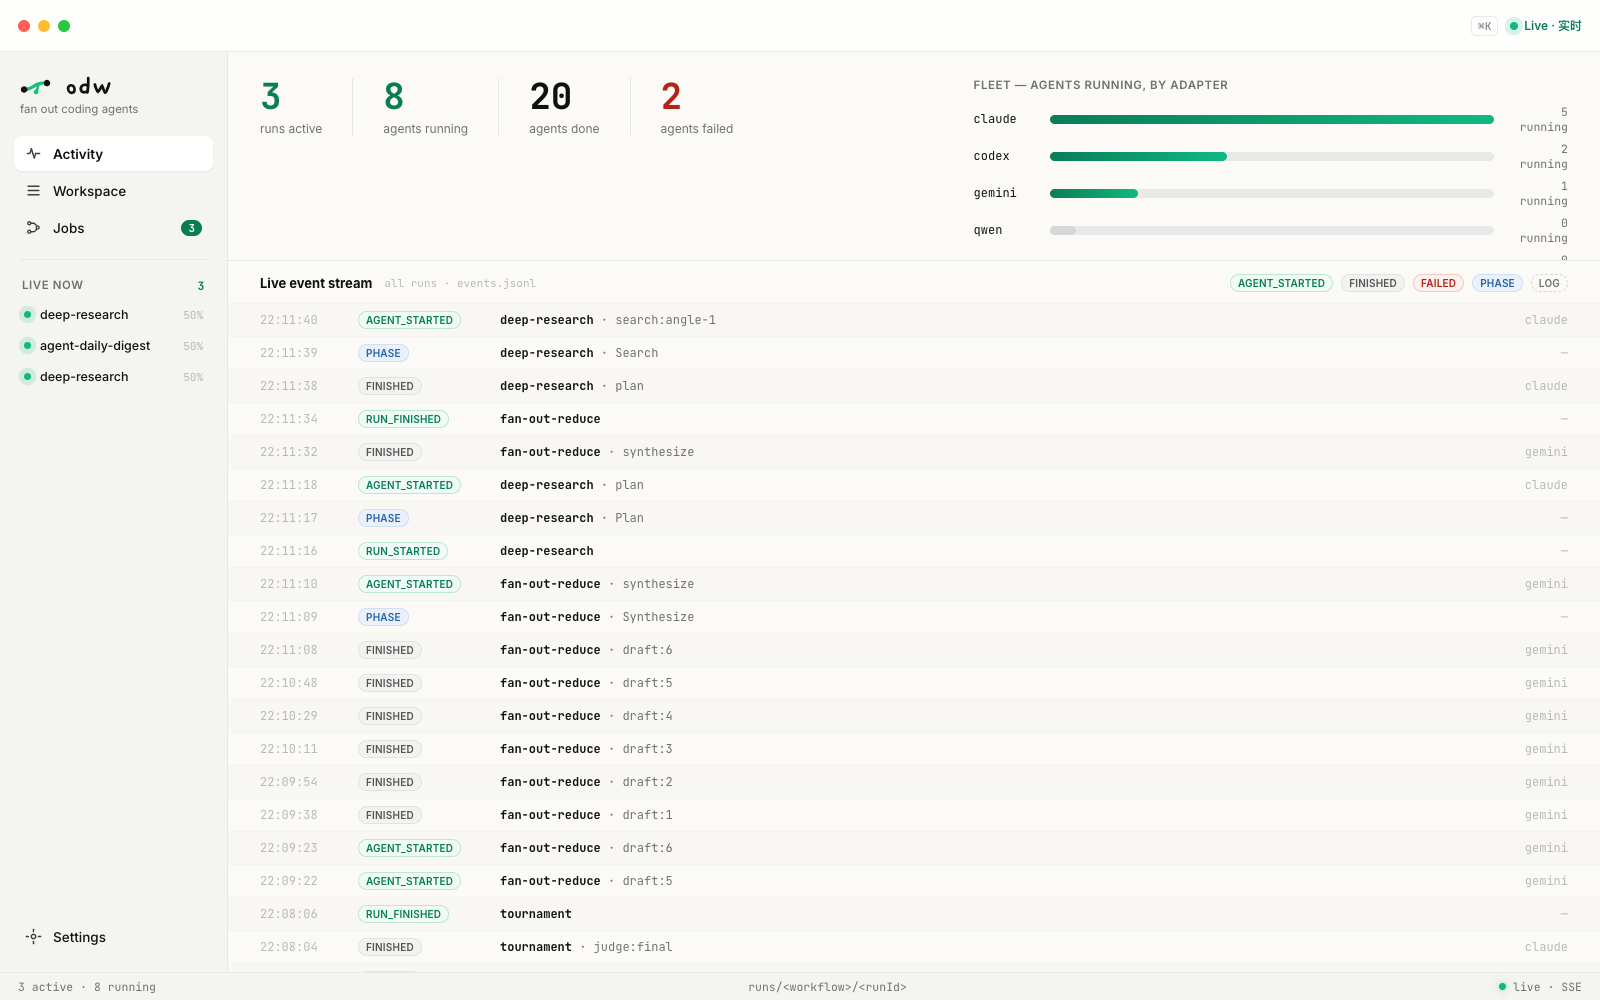
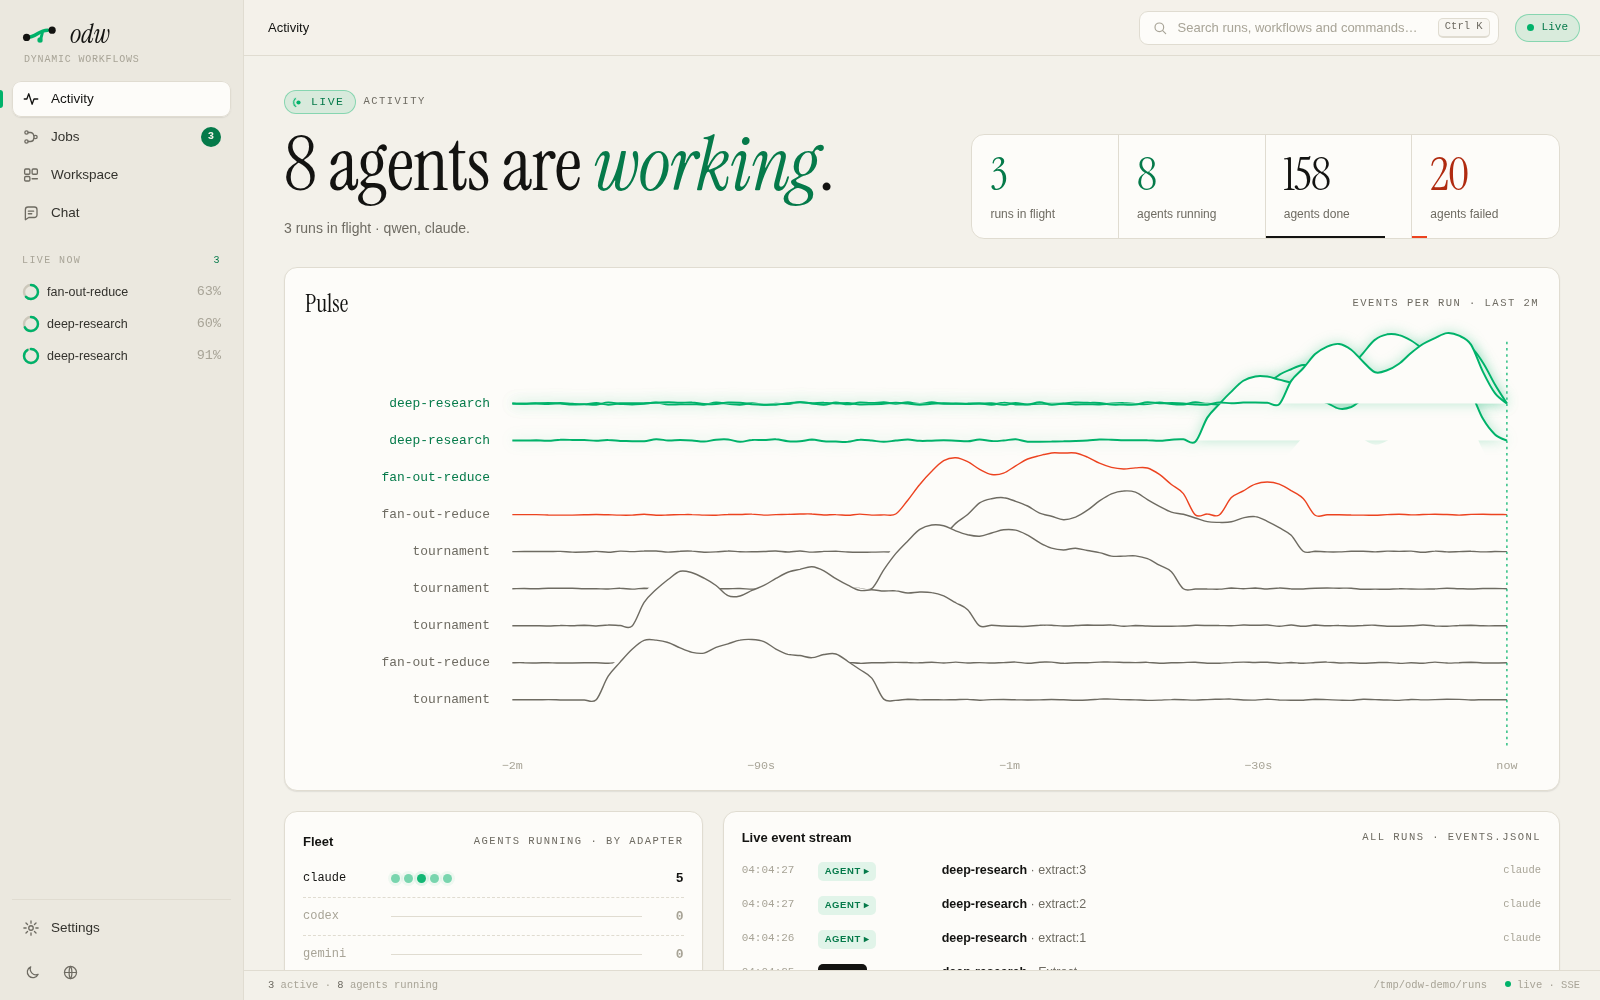
docs: describe the redesigned dashboard and refresh its screenshots
README (en + zh-CN): what each view shows, the command palette and
shortcuts, run notifications, and the dashboard development loop
(live demo fixtures + web/dev.mjs). Screenshots are retaken from a live
simulated fleet, with a timeline and a night-theme view added; the
launch-page captures of a feature removed in 0.5 are dropped.

diff --git a/README.zh-CN.md b/README.zh-CN.md
@@ -268,38 +268,58 @@ odw list
 的目录和 Claude Code 保存 workflow 的目录: `.odw/workflows`、`.claude/workflows`、
 `~/.odw/workflows`、`~/.claude/workflows`(遵循 `CLAUDE_CONFIG_DIR`)。
 
-**喜欢用浏览器?** `odw serve` 会对同一个 run 目录开一个零依赖的实时仪表盘——阶段分栏、
-每个 agent 的卡片(适配器 + 耗时)、运行状态都通过 SSE 实时更新。无需构建,不引入任何
-额外依赖。
+**喜欢用浏览器?** `odw serve` 会对同一个 run 目录开一个零依赖的实时看板——每次运行都是一张
+实时图,还有时间线、日志和结果,全部通过 SSE 推送。无需构建,不引入额外依赖,加载时不访问网络。
 
 ```bash
-odw serve [--open]                      # 实时仪表盘,默认 http://127.0.0.1:4317
+odw serve [--open]                      # 实时看板,默认 http://127.0.0.1:4317
 odw serve --port 8080 --host 0.0.0.0    # 自定义端口 / 绑定地址
 ```
 
-![odw serve —— 一次 deep-research 运行的实时看板:阶段分栏(Search → Extract → Vote → Report)、每个 agent 的卡片(适配器 + 耗时)、实时状态](assets/odw-dashboard.png)
+![odw serve —— 一次实时 deep-research 运行:五个阶段泳道(Plan → Search → Extract → Vote → Report)绘制成图,运行中的 agent 沿边传递信号,带运行计数与阶段步进条](assets/odw-dashboard.png)
 
-看板的另外两个页面 —— **Activity**(实时事件流)与 **Job detail**(以实时 DAG 展示
-的运行):
+## 看板:观测、检查、对话
+
+看板的视觉像一张印刷品——纸、墨和一种信号色——也可以随时切换到夜间主题。它提供:
+
+- **Activity** —— 每个运行的事件密度"脉搏"山脊图、实时计数、按适配器统计的运行中 agent,
+  以及跨所有运行的事件流。
+- **Jobs** —— 进行中的运行以实时卡片展示(阶段条、agent 构成、耗时),外加可筛选、分页的历史
+  (`#/jobs/live|done|failed` 可直接链接到某个筛选)。
+- **单次运行** —— 图(扇出成扇、汇聚成漏斗;边会被"绘制"出来,对应 agent 运行时有信号流动;
+  可缩放、适应、拖拽)、显示时间花在哪里的**时间线**、可筛选并可跟随的**日志**、可折叠 JSON 树
+  形式的**结果**,以及展示每个已完成 agent 自身输出的 **agent 抽屉**。
+- **Workspace** —— 所有已保存的工作流:阶段的静态结构及每个阶段调用的原语、源码和最近的运行。
+- **Chat Host** —— 正常的 Codex 对话;提到 ODW 或 workflow 时,该回合会关联到一个真实的后台
+  运行,工具卡片实时更新。
 
 <table>
   <tr>
     <td width="50%">
       <strong>Activity</strong><br />
-      <img src="assets/app-screenshots/activity.png" alt="Activity 页面:实时事件流、活跃运行计数和按适配器统计的 agent 负载" />
+      <img src="assets/app-screenshots/activity.png" alt="Activity 页面:标题、实时计数、每个运行事件密度的脉搏山脊图、按适配器的机队和实时事件流" />
     </td>
     <td width="50%">
-      <strong>Job detail</strong><br />
-      <img src="assets/app-screenshots/job-detail.png" alt="Job detail 页面:按阶段展示实时 workflow 图和 agent 节点" />
+      <strong>时间线</strong><br />
+      <img src="assets/app-screenshots/timeline.png" alt="一次运行的时间线:每个 agent 是一根从开始到结束的条,按阶段分组,运行中带有当前时刻标记" />
+    </td>
+  </tr>
+  <tr>
+    <td width="50%">
+      <strong>Jobs</strong><br />
+      <img src="assets/app-screenshots/jobs.png" alt="Jobs 页面:带阶段条的实时运行卡片和按日期分组的历史表格" />
+    </td>
+    <td width="50%">
+      <strong>夜间主题</strong><br />
+      <img src="assets/app-screenshots/job-detail-dark.png" alt="夜间主题下的实时运行图,信号边带有发光效果" />
     </td>
   </tr>
 </table>
 
-## 看板:对话、观测、检查
-
-看板是观测台,也带一个本地 Chat Host。普通问题就像正常 Codex 对话一样使用;当某个回合
-提到 ODW 或 workflow,它会关联到真实的后台运行。CLI 发起的运行(`odw run <name>`)和
-Chat 关联的 ODW 任务都会出现在 Jobs 里,以实时 DAG、日志和最终结果展示。
+按 <kbd>⌘K</kbd> / <kbd>Ctrl K</kbd>(或 <kbd>/</kbd>)打开命令面板——跳转到任意运行或工作流、
+切换主题或语言、复制跟踪或重跑命令。<kbd>g</kbd> 再按 <kbd>a</kbd>/<kbd>j</kbd>/<kbd>w</kbd>/<kbd>c</kbd>/<kbd>s</kbd>
+切换页面,<kbd>1</kbd>–<kbd>4</kbd> 切换运行的标签页,<kbd>+</kbd>/<kbd>-</kbd>/<kbd>0</kbd> 缩放图。
+运行结束时看板会提示;如果在设置中开启,标签页在后台时还会发送桌面通知。
 
 ```bash
 odw run adversarial-verify --args '{"question":"review src/rate-limiter.js"}'
@@ -430,6 +450,16 @@ npm run build         # tsc → dist/
 npm test              # node:test 测试套件,由 mock 适配器驱动(无需真实账号)
 npm run typecheck     # tsc --noEmit
 npm run build:binary  # 打包 + Node SEA + postject → 单个自包含的 ./build/odw
+```
+
+要开发看板:先生成一组持续推进的模拟运行,让一个 server 指向它,再启动开发服务器——它会在每次
+刷新页面时重新构建 `web/src`,并把 `/api`(含 SSE)代理到那个 server:
+
+```bash
+node web/demo-fixtures.mjs /tmp/odw-demo/runs /tmp/odw-demo/project --live &
+echo '{"runsRoot":"/tmp/odw-demo/runs"}' > /tmp/odw-demo/odw.config.json
+(cd /tmp/odw-demo/project && npx tsx "$OLDPWD/src/cli.ts" serve --config /tmp/odw-demo/odw.config.json --port 4317) &
+node web/dev.mjs --api http://127.0.0.1:4317     # → http://127.0.0.1:5173
 ```
 
 更新本地源码安装时,先构建更新后的目录,再运行 `npm install -g .`,并将同目录的

diff --git a/README.md b/README.md
@@ -293,38 +293,63 @@ workflow directories: `.odw/workflows`, `.claude/workflows`, `~/.odw/workflows`,
 and `~/.claude/workflows` (honoring `CLAUDE_CONFIG_DIR`).
 
 **Prefer a browser?** `odw serve` opens a zero-dependency live dashboard onto the same
-run directory — phase columns, per-agent cards (adapter + elapsed time), and run status
-stream in real time over SSE. No build step, no extra deps.
+run directory — every run as a live graph, its timeline, logs and result, streamed over
+SSE. No build step, no extra deps, no network access on load.
 
 ```bash
 odw serve [--open]                      # live dashboard at http://127.0.0.1:4317
 odw serve --port 8080 --host 0.0.0.0    # custom port / bind address
 ```
 
-![odw serve — a live board of a deep-research run: phase columns (Search → Extract → Vote → Report), per-agent cards with adapter and elapsed time, and live status](assets/odw-dashboard.png)
+![odw serve — a live deep-research run: five phase lanes (Plan → Search → Extract → Vote → Report) drawn as a graph, running agents tracing signal along their edges, per-run counters and a phase stepper](assets/odw-dashboard.png)
 
-Two more of its views — **Activity** (live event stream) and **Job detail**
-(the run as a live DAG):
+## Dashboard: observe, inspect, chat
+
+The dashboard reads like a printed sheet — paper, ink and one signal colour — and
+switches to a night theme on demand. What it gives you:
+
+- **Activity** — a ridgeline *pulse* of event density per run, live counters, the
+  fleet of running agents per adapter, and a firehose of events across all runs.
+- **Jobs** — runs in flight as live cards (phase rail, agent mix, elapsed time),
+  plus a filterable, paged history (`#/jobs/live|done|failed` links straight to a filter).
+- **A run** — the graph (fan-outs fan, reduces funnel; edges draw in and carry a
+  marching signal while their agent runs; zoom, fit and pan), a **timeline** that
+  shows where the time went, filterable **logs** with follow, the **result** as a
+  collapsible JSON tree, and an **agent drawer** with each finished agent's own output.
+- **Workspace** — every saved workflow with a static outline of its phases and the
+  primitives each one calls, its source, and its recent runs.
+- **Chat Host** — ordinary Codex conversation; mention ODW or workflow and the turn
+  is attached to a real background run whose tool card updates live.
 
 <table>
   <tr>
     <td width="50%">
       <strong>Activity</strong><br />
-      <img src="assets/app-screenshots/activity.png" alt="Activity view showing live event stream, active run counters, and per-adapter agent load" />
+      <img src="assets/app-screenshots/activity.png" alt="Activity view: a headline, live counters, a ridgeline pulse of event density per run, the fleet by adapter and the live event stream" />
     </td>
     <td width="50%">
-      <strong>Job detail</strong><br />
-      <img src="assets/app-screenshots/job-detail.png" alt="Job detail view showing a live workflow graph with phase columns and agent nodes" />
+      <strong>Timeline</strong><br />
+      <img src="assets/app-screenshots/timeline.png" alt="A run's timeline: every agent as a bar from start to finish, grouped by phase, with a now marker while it runs" />
+    </td>
+  </tr>
+  <tr>
+    <td width="50%">
+      <strong>Jobs</strong><br />
+      <img src="assets/app-screenshots/jobs.png" alt="Jobs view: live run cards with phase rails and a day-grouped history table" />
+    </td>
+    <td width="50%">
+      <strong>Night theme</strong><br />
+      <img src="assets/app-screenshots/job-detail-dark.png" alt="A live run graph in the night theme, with glowing signal edges" />
     </td>
   </tr>
 </table>
 
-## Dashboard: chat, observe, inspect
-
-The dashboard is an observatory plus a local Chat Host. Use Chat for ordinary
-Codex conversation; mention ODW or workflow when a turn should be attached to a
-real background run. Runs started from the CLI (`odw run <name>`) and Chat-linked
-ODW tasks show up in Jobs as live DAGs with logs and final results.
+Press <kbd>⌘K</kbd> / <kbd>Ctrl K</kbd> (or <kbd>/</kbd>) for the command palette —
+jump to any run or workflow, switch theme or language, copy a follow or rerun command.
+<kbd>g</kbd> then <kbd>a</kbd>/<kbd>j</kbd>/<kbd>w</kbd>/<kbd>c</kbd>/<kbd>s</kbd> moves
+between views, <kbd>1</kbd>–<kbd>4</kbd> switch a run's tabs, and <kbd>+</kbd>/<kbd>-</kbd>/<kbd>0</kbd>
+zoom the graph. When a run finishes the dashboard says so, and — if you opt in under
+Settings — sends a desktop notification while the tab is in the background.
 
 ```bash
 odw run adversarial-verify --args '{"question":"review src/rate-limiter.js"}'
@@ -464,6 +489,17 @@ npm run build         # tsc → dist/
 npm test              # node:test suite, driven by a mock adapter (no real accounts)
 npm run typecheck     # tsc --noEmit
 npm run build:binary  # bundle + Node SEA + postject → a single self-contained ./build/odw
+```
+
+Working on the dashboard? Seed a simulated fleet that keeps moving, point a server
+at it, and run the dev server — it rebuilds `web/src` on every page load and proxies
+`/api` (SSE included) to that server:
+
+```bash
+node web/demo-fixtures.mjs /tmp/odw-demo/runs /tmp/odw-demo/project --live &
+echo '{"runsRoot":"/tmp/odw-demo/runs"}' > /tmp/odw-demo/odw.config.json
+(cd /tmp/odw-demo/project && npx tsx "$OLDPWD/src/cli.ts" serve --config /tmp/odw-demo/odw.config.json --port 4317) &
+node web/dev.mjs --api http://127.0.0.1:4317     # → http://127.0.0.1:5173
 ```
 
 To update a local source installation, build the updated checkout and run
